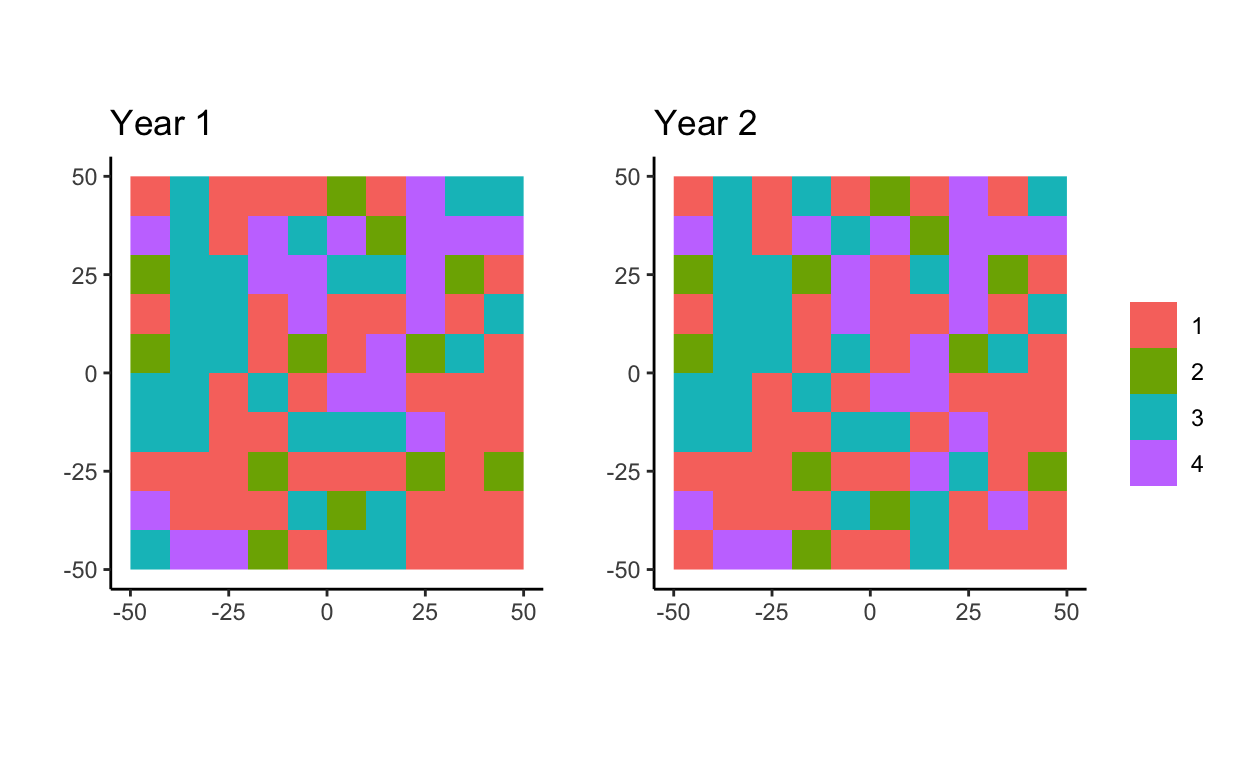
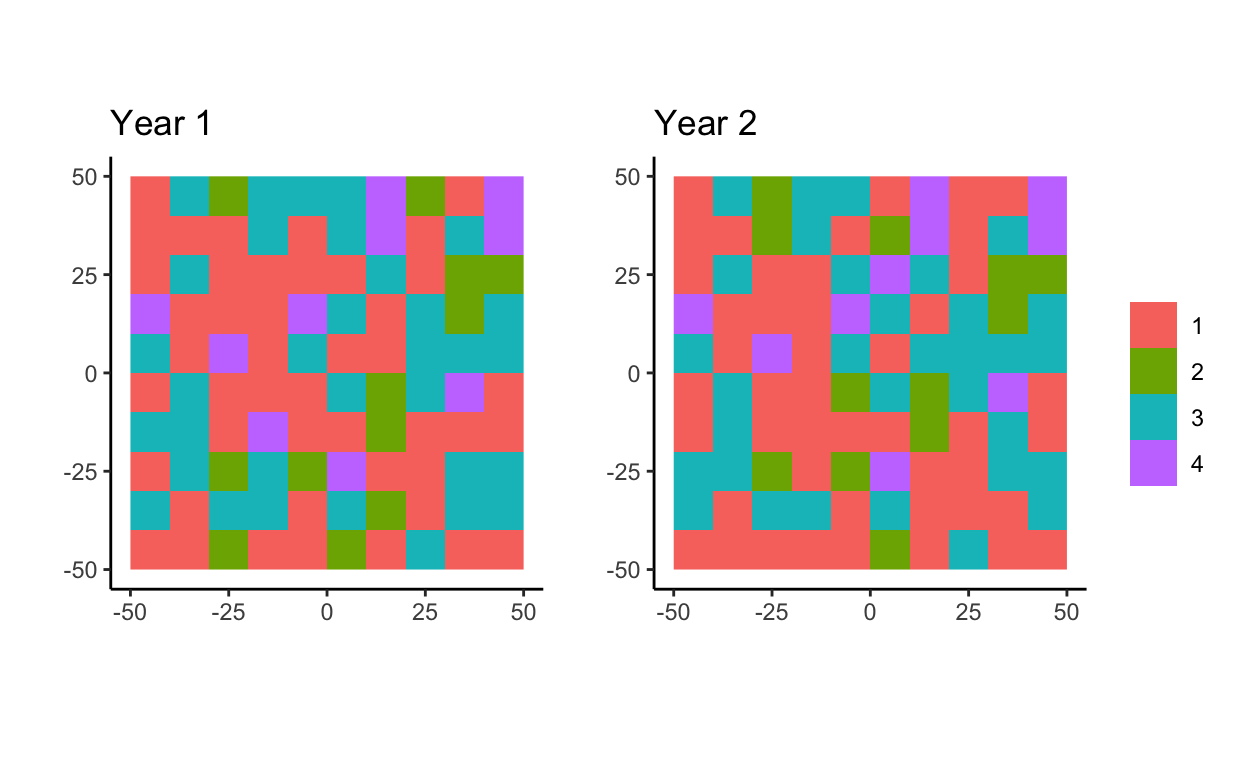
update raster plots

Changed region(s): [[0.0938, 0.2188, 0.4375, 0.75], [0.5312, 0.2188, 0.875, 0.75]]

diff --git a/_posts/2022-02-19-raster-class-changes-by-zone/raster-class-changes-by-zone.html b/_posts/2022-02-19-raster-class-changes-by-zone/raster-class-changes-by-zone.html
@@ -117,7 +117,7 @@ code span.wa { color: #5e5e5e; font-style: italic; } /* Warning */
   <!--/radix_placeholder_rmarkdown_metadata-->
   
   <script type="text/json" id="radix-resource-manifest">
-  {"type":"character","attributes":{},"value":["raster-class-changes-by-zone_files/anchor-4.2.2/anchor.min.js","raster-class-changes-by-zone_files/bowser-1.9.3/bowser.min.js","raster-class-changes-by-zone_files/distill-2.2.21/template.v2.js","raster-class-changes-by-zone_files/figure-html5/unnamed-chunk-1-1.png","raster-class-changes-by-zone_files/figure-html5/unnamed-chunk-2-1.png","raster-class-changes-by-zone_files/figure-html5/unnamed-chunk-3-1.png","raster-class-changes-by-zone_files/figure-html5/unnamed-chunk-4-1.png","raster-class-changes-by-zone_files/figure-html5/unnamed-chunk-4-2.png","raster-class-changes-by-zone_files/figure-html5/unnamed-chunk-5-1.png","raster-class-changes-by-zone_files/figure-html5/unnamed-chunk-6-1.png","raster-class-changes-by-zone_files/header-attrs-2.11/header-attrs.js","raster-class-changes-by-zone_files/jquery-3.6.0/jquery-3.6.0.js","raster-class-changes-by-zone_files/jquery-3.6.0/jquery-3.6.0.min.js","raster-class-changes-by-zone_files/jquery-3.6.0/jquery-3.6.0.min.map","raster-class-changes-by-zone_files/popper-2.6.0/popper.min.js","raster-class-changes-by-zone_files/tippy-6.2.7/tippy-bundle.umd.min.js","raster-class-changes-by-zone_files/tippy-6.2.7/tippy-light-border.css","raster-class-changes-by-zone_files/tippy-6.2.7/tippy.css","raster-class-changes-by-zone_files/tippy-6.2.7/tippy.umd.min.js","raster-class-changes-by-zone_files/webcomponents-2.0.0/webcomponents.js"]}
+  {"type":"character","attributes":{},"value":["raster-class-changes-by-zone_files/anchor-4.2.2/anchor.min.js","raster-class-changes-by-zone_files/bowser-1.9.3/bowser.min.js","raster-class-changes-by-zone_files/distill-2.2.21/template.v2.js","raster-class-changes-by-zone_files/figure-html5/unnamed-chunk-1-1.png","raster-class-changes-by-zone_files/figure-html5/unnamed-chunk-14-1.png","raster-class-changes-by-zone_files/figure-html5/unnamed-chunk-2-1.png","raster-class-changes-by-zone_files/figure-html5/unnamed-chunk-3-1.png","raster-class-changes-by-zone_files/figure-html5/unnamed-chunk-4-1.png","raster-class-changes-by-zone_files/figure-html5/unnamed-chunk-4-2.png","raster-class-changes-by-zone_files/figure-html5/unnamed-chunk-5-1.png","raster-class-changes-by-zone_files/figure-html5/unnamed-chunk-6-1.png","raster-class-changes-by-zone_files/header-attrs-2.11/header-attrs.js","raster-class-changes-by-zone_files/jquery-3.6.0/jquery-3.6.0.js","raster-class-changes-by-zone_files/jquery-3.6.0/jquery-3.6.0.min.js","raster-class-changes-by-zone_files/jquery-3.6.0/jquery-3.6.0.min.map","raster-class-changes-by-zone_files/popper-2.6.0/popper.min.js","raster-class-changes-by-zone_files/tippy-6.2.7/tippy-bundle.umd.min.js","raster-class-changes-by-zone_files/tippy-6.2.7/tippy-light-border.css","raster-class-changes-by-zone_files/tippy-6.2.7/tippy.css","raster-class-changes-by-zone_files/tippy-6.2.7/tippy.umd.min.js","raster-class-changes-by-zone_files/webcomponents-2.0.0/webcomponents.js"]}
   </script>
   <!--radix_placeholder_navigation_in_header-->
   <!--/radix_placeholder_navigation_in_header-->
@@ -1485,7 +1485,8 @@ code span.wa { color: #5e5e5e; font-style: italic; } /* Warning */
 <div class="layout-chunk" data-layout="l-body">
 <div class="sourceCode">
 <pre class="sourceCode r"><code class="sourceCode r"><span class='kw'><a href='https://rdrr.io/r/base/library.html'>library</a></span><span class='op'>(</span><span class='va'><a href='https://rspatial.org/terra/'>terra</a></span><span class='op'>)</span> <span class='co'># Spatial Data Analysis</span>
-<span class='kw'><a href='https://rdrr.io/r/base/library.html'>library</a></span><span class='op'>(</span><span class='va'><a href='https://ggplot2.tidyverse.org'>ggplot2</a></span><span class='op'>)</span> <span class='co'># Create Elegant Data Visualisations Using the Grammar of Graphics </span>
+<span class='kw'><a href='https://rdrr.io/r/base/library.html'>library</a></span><span class='op'>(</span><span class='va'><a href='https://dplyr.tidyverse.org'>dplyr</a></span><span class='op'>)</span> <span class='co'># A Grammar of Data Manipulation</span>
+<span class='kw'><a href='https://rdrr.io/r/base/library.html'>library</a></span><span class='op'>(</span><span class='va'><a href='https://tidyr.tidyverse.org'>tidyr</a></span><span class='op'>)</span> <span class='co'># Tidy Messy Data</span>
 </code></pre>
 </div>
 </div>
@@ -1515,7 +1516,12 @@ code span.wa { color: #5e5e5e; font-style: italic; } /* Warning */
 </div>
 </div>
 <div class="layout-chunk" data-layout="l-body">
-<p><img src="raster-class-changes-by-zone_files/figure-html5/unnamed-chunk-3-1.png" width="110%" /></p>
+<div class="figure"><span style="display:block;" id="fig:unnamed-chunk-3"></span>
+<img src="raster-class-changes-by-zone_files/figure-html5/unnamed-chunk-3-1.png" alt="Zone layer" width="110%" />
+<p class="caption">
+Figure 1: Zone layer
+</p>
+</div>
 </div>
 <div class="layout-chunk" data-layout="l-body">
 <div class="sourceCode">
@@ -1549,11 +1555,21 @@ code span.wa { color: #5e5e5e; font-style: italic; } /* Warning */
 </div>
 </div>
 <div class="layout-chunk" data-layout="l-body">
-<p><img src="raster-class-changes-by-zone_files/figure-html5/unnamed-chunk-5-1.png" width="110%" /></p>
+<div class="figure"><span style="display:block;" id="fig:unnamed-chunk-5"></span>
+<img src="raster-class-changes-by-zone_files/figure-html5/unnamed-chunk-5-1.png" alt="Classes in Year 1 and Year 2" width="110%" />
+<p class="caption">
+Figure 2: Classes in Year 1 and Year 2
+</p>
+</div>
 </div>
 <p>We can also plot the zone over the top of each year to illustrate how the zone layer sits on the class layers</p>
 <div class="layout-chunk" data-layout="l-body">
-<p><img src="raster-class-changes-by-zone_files/figure-html5/unnamed-chunk-6-1.png" width="110%" /></p>
+<div class="figure"><span style="display:block;" id="fig:unnamed-chunk-6"></span>
+<img src="raster-class-changes-by-zone_files/figure-html5/unnamed-chunk-6-1.png" alt="Classes in Year 1 and Year 2 with zone overlay" width="110%" />
+<p class="caption">
+Figure 3: Classes in Year 1 and Year 2 with zone overlay
+</p>
+</div>
 </div>
 <h1 id="getting-classification-counts-for-each-year">Getting classification counts for each year</h1>
 <p>We are able to obtain the simple count of classes for each year raster by using the <code>freq</code> function. We can see the class designation in the <code>value</code> column and can see that the sum of the counts is 100 (the number of cells in our raster).</p>
@@ -1563,10 +1579,10 @@ code span.wa { color: #5e5e5e; font-style: italic; } /* Warning */
 </code></pre>
 </div>
 <pre><code>     layer value count
-[1,]     1     1    41
+[1,]     1     1    45
 [2,]     1     2    12
-[3,]     1     3    28
-[4,]     1     4    19</code></pre>
+[3,]     1     3    33
+[4,]     1     4    10</code></pre>
 </div>
 <div class="layout-chunk" data-layout="l-body">
 <div class="sourceCode">
@@ -1582,22 +1598,22 @@ code span.wa { color: #5e5e5e; font-style: italic; } /* Warning */
 </code></pre>
 </div>
 <pre><code>     layer value count
-[1,]     1     1    41
+[1,]     1     1    45
 [2,]     1     2    12
-[3,]     1     3    28
-[4,]     1     4    19
-[5,]     2     1    43
-[6,]     2     2    11
-[7,]     2     3    26
-[8,]     2     4    20</code></pre>
+[3,]     1     3    33
+[4,]     1     4    10
+[5,]     2     1    46
+[6,]     2     2    12
+[7,]     2     3    32
+[8,]     2     4    10</code></pre>
 </div>
 <p>Again we can see that for each layer (layer = 1 is <code>year1</code> and layer = 2 is <code>year2</code> as defined by the order we stacked the rasters) that the count of cells is 100</p>
 <div class="layout-chunk" data-layout="l-body">
 <div class="sourceCode">
-<pre class="sourceCode r"><code class="sourceCode r"><span class='fu'><a href='https://rdrr.io/pkg/terra/man/freq.html'>freq</a></span><span class='op'>(</span><span class='fu'><a href='https://rdrr.io/pkg/terra/man/c.html'>c</a></span><span class='op'>(</span><span class='va'>year1</span>, <span class='va'>year2</span><span class='op'>)</span><span class='op'>)</span> <span class='op'>%&gt;%</span> 
-  <span class='fu'><a href='https://rdrr.io/pkg/terra/man/as.data.frame.html'>as.data.frame</a></span><span class='op'>(</span><span class='op'>)</span> <span class='op'>%&gt;%</span> 
-  <span class='fu'>group_by</span><span class='op'>(</span><span class='va'>layer</span><span class='op'>)</span> <span class='op'>%&gt;%</span> 
-  <span class='fu'>summarise</span><span class='op'>(</span>
+<pre class="sourceCode r"><code class="sourceCode r"><span class='fu'><a href='https://rdrr.io/pkg/terra/man/freq.html'>freq</a></span><span class='op'>(</span><span class='fu'><a href='https://rdrr.io/pkg/terra/man/c.html'>c</a></span><span class='op'>(</span><span class='va'>year1</span>, <span class='va'>year2</span><span class='op'>)</span><span class='op'>)</span> <span class='op'><a href='https://rdrr.io/pkg/magrittr/man/pipe.html'>%&gt;%</a></span> 
+  <span class='fu'><a href='https://rdrr.io/pkg/terra/man/as.data.frame.html'>as.data.frame</a></span><span class='op'>(</span><span class='op'>)</span> <span class='op'><a href='https://rdrr.io/pkg/magrittr/man/pipe.html'>%&gt;%</a></span> 
+  <span class='fu'><a href='https://rdrr.io/pkg/dplyr/man/group_by.html'>group_by</a></span><span class='op'>(</span><span class='va'>layer</span><span class='op'>)</span> <span class='op'><a href='https://rdrr.io/pkg/magrittr/man/pipe.html'>%&gt;%</a></span> 
+  <span class='fu'><a href='https://rdrr.io/pkg/dplyr/man/summarise.html'>summarise</a></span><span class='op'>(</span>
     sum <span class='op'>=</span> <span class='fu'><a href='https://rdrr.io/pkg/terra/man/summarize-generics.html'>sum</a></span><span class='op'>(</span><span class='va'>count</span><span class='op'>)</span>
   <span class='op'>)</span>
 </code></pre>
@@ -1616,10 +1632,10 @@ code span.wa { color: #5e5e5e; font-style: italic; } /* Warning */
 </div>
 <pre><code>           zone
 year1_class  1  2
-          1 22 19
-          2  7  5
-          3 21  7
-          4 15  4</code></pre>
+          1 28 17
+          2  6  6
+          3 22 11
+          4  9  1</code></pre>
 </div>
 <h1 id="creating-classification-change-matrix">Creating Classification Change Matrix</h1>
 <p>We have two rasters representing two years with varying cell classifications and we may be interested in claculating the change from one class to another. Ignoring the zone raster we can create a simple classification change matrix by combining the <code>year1</code> and <code>year2</code> rasters into a single <code>RasterStack</code> and passing this to <code>terra::crosstab</code>. This returns a matrix showing the count of cells that have moved from a given class in year 1 (rows) to a given class in year 2 (cols)</p>
@@ -1632,10 +1648,10 @@ year1_class  1  2
 </div>
 <pre><code>           year2_class
 year1_class  1  2  3  4
-          1 38  0  1  2
-          2  0 10  2  0
-          3  5  0 23  0
-          4  0  1  0 18</code></pre>
+          1 38  2  4  1
+          2  3  9  0  0
+          3  4  1 28  0
+          4  1  0  0  9</code></pre>
 </div>
 <p>Note that the sum of the matrix is equal to 100 as we are couting the number of cells that have moved from a given class in <code>year1</code> to a given class in <code>year2</code> rather than the count of cells in a class in <code>year1</code> and the count of cells in a class in <code>year2</code></p>
 <div class="layout-chunk" data-layout="l-body">
@@ -1644,6 +1660,15 @@ year1_class  1  2  3  4
 </code></pre>
 </div>
 <pre><code>[1] 100</code></pre>
+</div>
+<p>This plot illistrates the specific values that have changed class.</p>
+<div class="layout-chunk" data-layout="l-body">
+<div class="figure"><span style="display:block;" id="fig:unnamed-chunk-14"></span>
+<img src="raster-class-changes-by-zone_files/figure-html5/unnamed-chunk-14-1.png" alt="Cells that changed values. Gray inidicates cell class did not change" width="110%" />
+<p class="caption">
+Figure 4: Cells that changed values. Gray inidicates cell class did not change
+</p>
+</div>
 </div>
 <p>We can extend this approach to account for our third raster which provides the zone each cell falls within by adding the <code>zone</code> raster as the third layer in a <code>RasterStack</code> which will return a <code>year1</code> x <code>year2</code> classification change matrix for each level of <code>zone</code></p>
 <div class="layout-chunk" data-layout="l-body">
@@ -1657,19 +1682,19 @@ year1_class  1  2  3  4
 
            year2_class
 year1_class  1  2  3  4
-          1 21  0  1  0
-          2  0  6  1  0
-          3  2  0 19  0
-          4  0  1  0 14
+          1 23  2  2  1
+          2  1  5  0  0
+          3  2  1 19  0
+          4  1  0  0  8
 
 , , zone = 2
 
            year2_class
 year1_class  1  2  3  4
-          1 17  0  0  2
-          2  0  4  1  0
-          3  3  0  4  0
-          4  0  0  0  4</code></pre>
+          1 15  0  2  0
+          2  2  4  0  0
+          3  2  0  9  0
+          4  0  0  0  1</code></pre>
 </div>
 <p>Note that now the sum of each <code>year1</code> x <code>year2</code> matrix is the number of cells in the given <code>zone</code> but that the two values sum to 100.</p>
 <div class="layout-chunk" data-layout="l-body">
@@ -1686,31 +1711,34 @@ year1_class  1  2  3  4
 </div>
 <div class="layout-chunk" data-layout="l-body">
 <pre><code>   year1_class year2_class zone Freq
-1            1           1    1   21
-2            1           3    1    1
-3            2           2    1    6
-4            2           3    1    1
-5            3           1    1    2
-6            3           3    1   19
-7            4           2    1    1
-8            4           4    1   14
-9            1           1    2   17
-10           1           4    2    2
-11           2           2    2    4
-12           2           3    2    1
-13           3           1    2    3
-14           3           3    2    4
-15           4           4    2    4</code></pre>
+1            1           1    1   23
+2            1           2    1    2
+3            1           3    1    2
+4            1           4    1    1
+5            2           1    1    1
+6            2           2    1    5
+7            3           1    1    2
+8            3           2    1    1
+9            3           3    1   19
+10           4           1    1    1
+11           4           4    1    8
+12           1           1    2   15
+13           1           3    2    2
+14           2           1    2    2
+15           2           2    2    4
+16           3           1    2    2
+17           3           3    2    9
+18           4           4    2    1</code></pre>
 </div>
 <p>This data can be used to calculate zonal classification counts by year by turning the data into a tidy dataframe by pivoting the table longer adding a column to indicate the year and a column indicating class.</p>
 <div class="layout-chunk" data-layout="l-body">
 <div class="sourceCode">
 <pre class="sourceCode r"><code class="sourceCode r"><span class='va'>tidy_dat</span> <span class='op'>&lt;-</span> <span class='fu'>terra</span><span class='fu'>::</span><span class='fu'><a href='https://rdrr.io/pkg/terra/man/crosstab.html'>crosstab</a></span><span class='op'>(</span><span class='fu'><a href='https://rdrr.io/pkg/terra/man/c.html'>c</a></span><span class='op'>(</span><span class='va'>year1</span>, <span class='va'>year2</span>, <span class='va'>zone</span><span class='op'>)</span>,
-                long <span class='op'>=</span> <span class='cn'>TRUE</span><span class='op'>)</span> <span class='op'>%&gt;%</span> 
+                long <span class='op'>=</span> <span class='cn'>TRUE</span><span class='op'>)</span> <span class='op'><a href='https://rdrr.io/pkg/magrittr/man/pipe.html'>%&gt;%</a></span> 
   <span class='co'>#pivot longer to create tidy data with only a single observation per row </span>
-  <span class='fu'>tidyr</span><span class='fu'>::</span><span class='fu'><a href='https://rdrr.io/pkg/tidyr/man/pivot_longer.html'>pivot_longer</a></span><span class='op'>(</span>cols <span class='op'>=</span> <span class='fu'>matches</span><span class='op'>(</span><span class='st'>"_class$"</span><span class='op'>)</span>,
+  <span class='fu'>tidyr</span><span class='fu'>::</span><span class='fu'><a href='https://rdrr.io/pkg/tidyr/man/pivot_longer.html'>pivot_longer</a></span><span class='op'>(</span>cols <span class='op'>=</span> <span class='fu'><a href='https://rdrr.io/pkg/tidyselect/man/starts_with.html'>matches</a></span><span class='op'>(</span><span class='st'>"_class$"</span><span class='op'>)</span>,
                       names_to <span class='op'>=</span> <span class='st'>"year"</span>,
-                      values_to <span class='op'>=</span> <span class='st'>"class"</span><span class='op'>)</span> <span class='op'>%&gt;%</span> 
+                      values_to <span class='op'>=</span> <span class='st'>"class"</span><span class='op'>)</span> <span class='op'><a href='https://rdrr.io/pkg/magrittr/man/pipe.html'>%&gt;%</a></span> 
   <span class='co'>#remove "_class" from the values in the year column</span>
   <span class='fu'>dplyr</span><span class='fu'>::</span><span class='fu'><a href='https://rdrr.io/pkg/dplyr/man/mutate.html'>mutate</a></span><span class='op'>(</span>
     year <span class='op'>=</span> <span class='fu'>stringr</span><span class='fu'>::</span><span class='fu'><a href='https://rdrr.io/pkg/stringr/man/str_remove.html'>str_remove</a></span><span class='op'>(</span><span class='va'>year</span>, 
@@ -1720,27 +1748,27 @@ year1_class  1  2  3  4
 <span class='va'>tidy_dat</span>
 </code></pre>
 </div>
-<pre><code># A tibble: 30 × 4
+<pre><code># A tibble: 36 × 4
     zone  Freq year  class
    &lt;dbl&gt; &lt;int&gt; &lt;chr&gt; &lt;dbl&gt;
- 1     1    21 year1     1
- 2     1    21 year2     1
- 3     2    17 year1     1
- 4     2    17 year2     1
- 5     1     1 year1     1
- 6     1     1 year2     3
- 7     2     2 year1     1
- 8     2     2 year2     4
- 9     1     6 year1     2
-10     1     6 year2     2
-# … with 20 more rows</code></pre>
+ 1     1    23 year1     1
+ 2     1    23 year2     1
+ 3     2    15 year1     1
+ 4     2    15 year2     1
+ 5     1     2 year1     1
+ 6     1     2 year2     2
+ 7     1     2 year1     1
+ 8     1     2 year2     3
+ 9     2     2 year1     1
+10     2     2 year2     3
+# … with 26 more rows</code></pre>
 </div>
 <p>From here we can group by <code>year</code>, <code>zone</code>, and <code>class</code> and sum the frequencies to get the count of the cells belonging to a given class in a give year</p>
 <div class="layout-chunk" data-layout="l-body">
 <div class="sourceCode">
-<pre class="sourceCode r"><code class="sourceCode r"><span class='va'>tidy_dat</span> <span class='op'>%&gt;%</span> 
-  <span class='fu'>group_by</span><span class='op'>(</span><span class='va'>year</span>, <span class='va'>zone</span>, <span class='va'>class</span><span class='op'>)</span> <span class='op'>%&gt;%</span> 
-  <span class='fu'>summarise</span><span class='op'>(</span>
+<pre class="sourceCode r"><code class="sourceCode r"><span class='va'>tidy_dat</span> <span class='op'><a href='https://rdrr.io/pkg/magrittr/man/pipe.html'>%&gt;%</a></span> 
+  <span class='fu'><a href='https://rdrr.io/pkg/dplyr/man/group_by.html'>group_by</a></span><span class='op'>(</span><span class='va'>year</span>, <span class='va'>zone</span>, <span class='va'>class</span><span class='op'>)</span> <span class='op'><a href='https://rdrr.io/pkg/magrittr/man/pipe.html'>%&gt;%</a></span> 
+  <span class='fu'><a href='https://rdrr.io/pkg/dplyr/man/summarise.html'>summarise</a></span><span class='op'>(</span>
     count <span class='op'>=</span> <span class='fu'><a href='https://rdrr.io/pkg/terra/man/summarize-generics.html'>sum</a></span><span class='op'>(</span><span class='va'>Freq</span><span class='op'>)</span>
   <span class='op'>)</span>
 </code></pre>
@@ -1749,22 +1777,22 @@ year1_class  1  2  3  4
 # Groups:   year, zone [4]
    year   zone class count
    &lt;chr&gt; &lt;dbl&gt; &lt;dbl&gt; &lt;int&gt;
- 1 year1     1     1    22
- 2 year1     1     2     7
- 3 year1     1     3    21
- 4 year1     1     4    15
- 5 year1     2     1    19
- 6 year1     2     2     5
- 7 year1     2     3     7
- 8 year1     2     4     4
- 9 year2     1     1    23
-10 year2     1     2     7
+ 1 year1     1     1    28
+ 2 year1     1     2     6
+ 3 year1     1     3    22
+ 4 year1     1     4     9
+ 5 year1     2     1    17
+ 6 year1     2     2     6
+ 7 year1     2     3    11
+ 8 year1     2     4     1
+ 9 year2     1     1    27
+10 year2     1     2     8
 11 year2     1     3    21
-12 year2     1     4    14
-13 year2     2     1    20
+12 year2     1     4     9
+13 year2     2     1    19
 14 year2     2     2     4
-15 year2     2     3     5
-16 year2     2     4     6</code></pre>
+15 year2     2     3    11
+16 year2     2     4     1</code></pre>
 </div>
 <p>This is the same as taking the matrix for each zone and summing the rows or columns, where summing the rows will give the counts by class for <code>year1</code> and summing the columns will give the counts by class for <code>year2</code></p>
 <div class="layout-chunk" data-layout="l-body">
@@ -1777,24 +1805,24 @@ year1_class  1  2  3  4
 </div>
 <pre><code>           year2_class
 year1_class  1  2  3  4
-          1 21  0  1  0
-          2  0  6  1  0
-          3  2  0 19  0
-          4  0  1  0 14</code></pre>
+          1 23  2  2  1
+          2  1  5  0  0
+          3  2  1 19  0
+          4  1  0  0  8</code></pre>
 <div class="sourceCode">
 <pre class="sourceCode r"><code class="sourceCode r"><span class='co'>#Year 1 class counts </span>
 <span class='fu'><a href='https://rdrr.io/r/base/colSums.html'>rowSums</a></span><span class='op'>(</span><span class='va'>y1_y2_zone1</span><span class='op'>)</span>
 </code></pre>
 </div>
 <pre><code> 1  2  3  4 
-22  7 21 15 </code></pre>
+28  6 22  9 </code></pre>
 <div class="sourceCode">
 <pre class="sourceCode r"><code class="sourceCode r"><span class='co'>#Year 2 class counts </span>
 <span class='fu'><a href='https://rdrr.io/r/base/colSums.html'>colSums</a></span><span class='op'>(</span><span class='va'>y1_y2_zone1</span><span class='op'>)</span>
 </code></pre>
 </div>
 <pre><code> 1  2  3  4 
-23  7 21 14 </code></pre>
+27  8 21  9 </code></pre>
 </div>
 <div class="sourceCode" id="cb16"><pre class="sourceCode r distill-force-highlighting-css"><code class="sourceCode r"></code></pre></div>
 <!--radix_placeholder_article_footer-->
